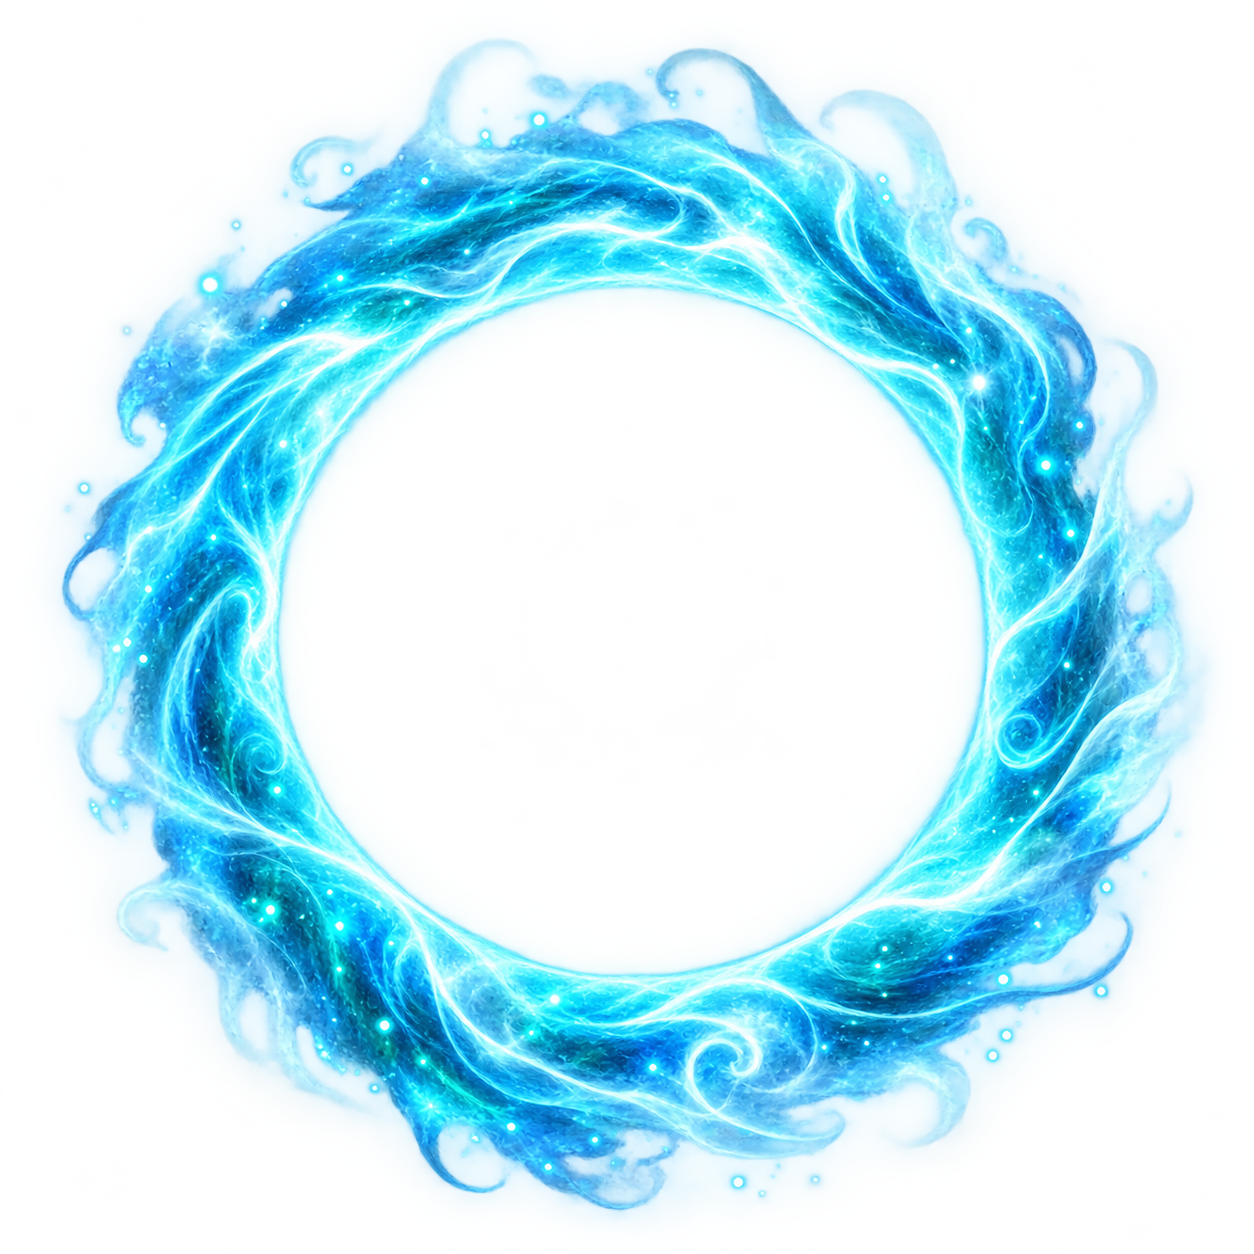
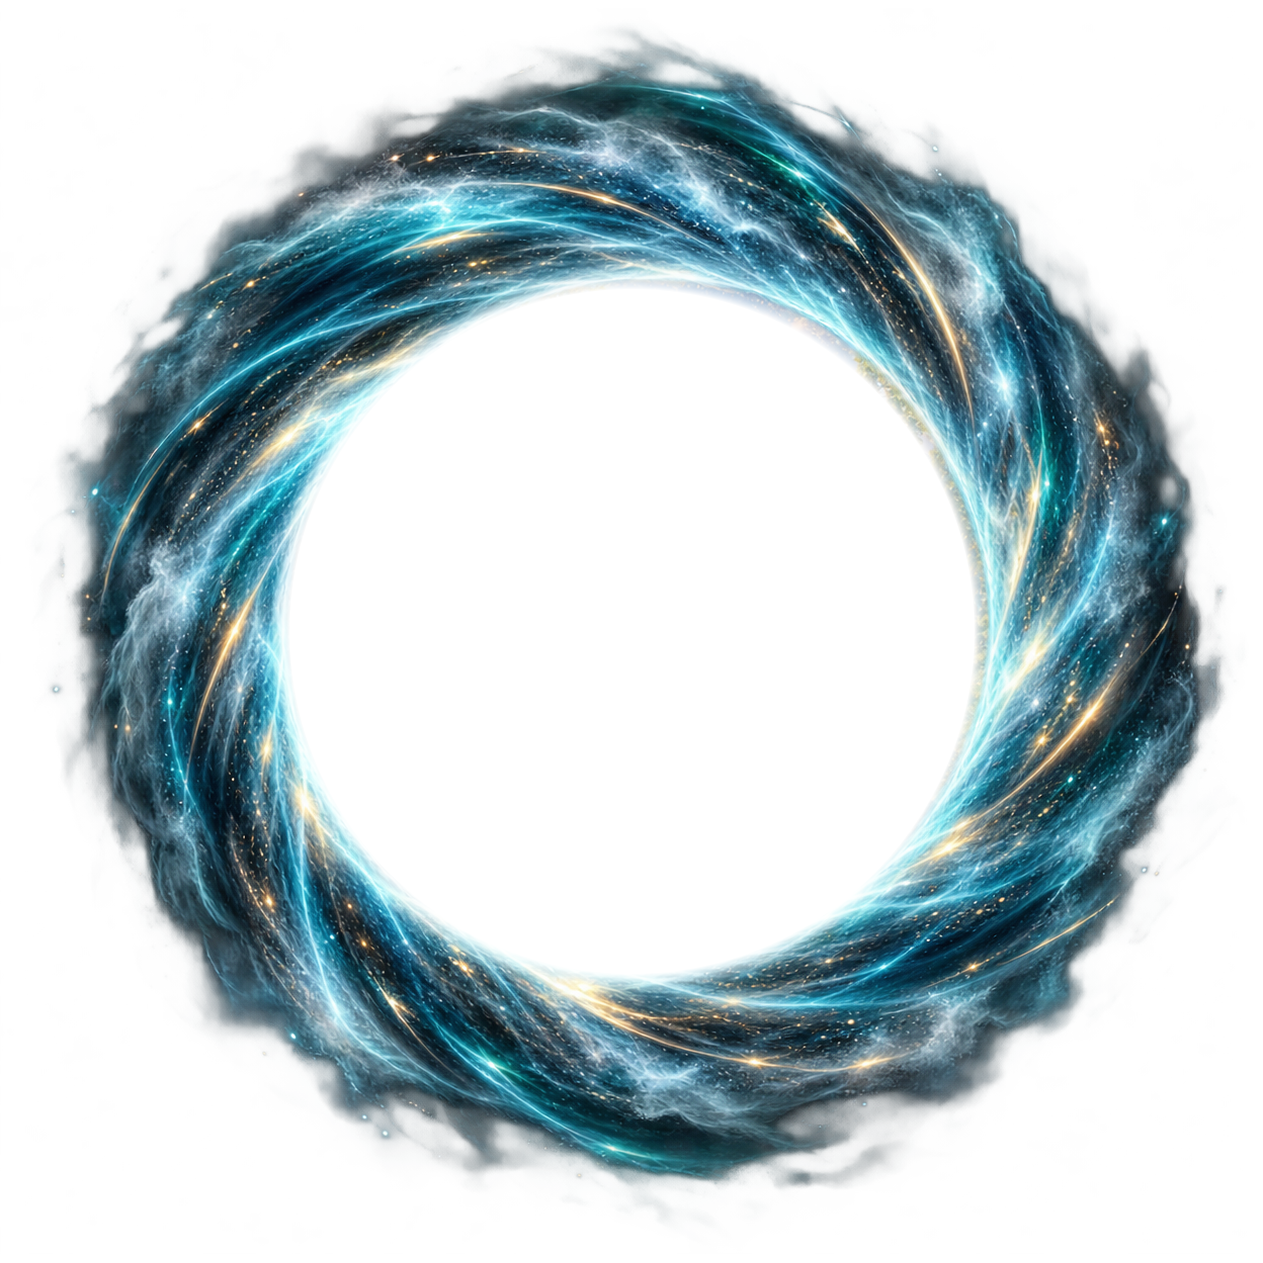
Added portal background image

diff --git a/MarsarahUI/Patches/UI/UIPortalTransition.cs b/MarsarahUI/Patches/UI/UIPortalTransition.cs
@@ -31,11 +31,12 @@ namespace MarsarahUI.Patches.UI
 
 		private const string MeadowsImageResource = "MarsarahUI.Assets.Portals.Biomes.Meadows_01.png";
 		private const string PortalRingResource1 = "MarsarahUI.Assets.Portals.Rings.PortalRing_01.png";
-		private const string PortalRingResource2 = "MarsarahUI.Assets.Portals.Rings.PortalRing_02.png";
-		private const string PortalRingResource3 = "MarsarahUI.Assets.Portals.Rings.PortalRing_03.png";
+		private const string PortalBackgroundResource = "MarsarahUI.Assets.Portals.Backgrounds.PortalBackground_01.png";
 
 		private static Sprite meadowsImageSprite;
 		private static Sprite portalRingSprite;
+		private static Sprite portalBackgroundSprite;
+		private static Image portalBackgroundImage;
 
 		[HarmonyPatch(typeof(Player), "TeleportTo")]
 		private static class PortalTransition_TeleportToPatch
@@ -153,7 +154,23 @@ namespace MarsarahUI.Patches.UI
 			rootRect.offsetMax = Vector2.zero;
 			rootRect.localScale = Vector3.one;
 
-			screenDimmer = CreateFullStretchImage("PortalDimmer", portalOverlayRoot, null, new Color(0f, 0f, 0f, 0.92f));
+			if (portalBackgroundSprite == null)
+			{
+				portalBackgroundSprite = IconManager.LoadEmbeddedIcon(PortalBackgroundResource);
+
+				if (portalBackgroundSprite != null)
+				{
+					log.Info("Loaded portal background image: PortalBackground_01.png");
+				}
+				else
+				{
+					log.Warn("Could not load PortalBackground_01.png. Using black fallback.");
+				}
+			}
+
+			portalBackgroundImage = CreateFullStretchImage("PortalBackground", portalOverlayRoot, portalBackgroundSprite, portalBackgroundSprite != null ? Color.white : Color.black);
+
+			screenDimmer = CreateFullStretchImage("PortalDimmer", portalOverlayRoot, null, portalBackgroundSprite != null ? new Color(0f, 0f, 0f, 0.25f) : new Color(0f, 0f, 0f, 0.92f));
 
 			GameObject portalContainer = new GameObject("PortalContainer");
 			portalContainer.layer = 5;
@@ -204,15 +221,15 @@ namespace MarsarahUI.Patches.UI
 
 			if (portalRingSprite == null)
 			{
-				portalRingSprite = IconManager.LoadEmbeddedIcon(PortalRingResource3);
+				portalRingSprite = IconManager.LoadEmbeddedIcon(PortalRingResource1);
 
 				if (portalRingSprite != null)
 				{
-					log.Info("Loaded portal ring image: PortalRing_03.png");
+					log.Info("Loaded portal ring image: PortalRing_01.png");
 				}
 				else
 				{
-					log.Warn("Could not load PortalRing_03.png. Using procedural ring.");
+					log.Warn("Could not load PortalRing_01.png. Using procedural ring.");
 				}
 			}
 
@@ -251,7 +268,15 @@ namespace MarsarahUI.Patches.UI
 
 			if (screenDimmer != null)
 			{
-				screenDimmer.color = new Color(0f, 0f, 0f, overlayAlpha);
+				screenDimmer.color = portalBackgroundSprite != null
+					? new Color(0f, 0f, 0f, 0.25f)
+					: new Color(0f, 0f, 0f, 0.92f);
+			}
+
+			if (portalBackgroundImage != null)
+			{
+				portalBackgroundImage.sprite = portalBackgroundSprite;
+				portalBackgroundImage.color = portalBackgroundSprite != null ? Color.white : Color.black;
 			}
 
 			if (portalBackplate != null)
